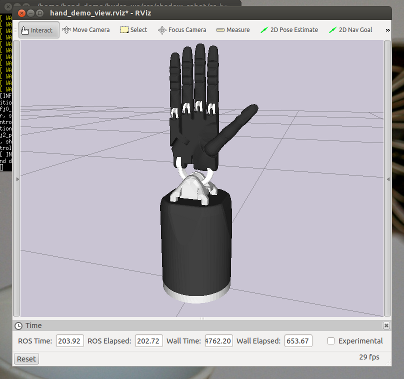
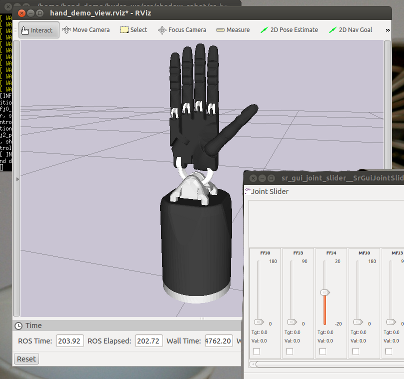
Better welcome page.

Changed region(s): [[0.5941, 0.4354, 1.0, 1.0]]

diff --git a/ansible/files/home/hand_demo/Documents/Welcome.html b/ansible/files/home/hand_demo/Documents/Welcome.html
@@ -3,26 +3,66 @@
   <head>
     <meta content="text/html; charset=utf-8" http-equiv="content-type">
     <title>Shadow Hand</title>
-  </head>
-  <body> <a href="http://www.shadowrobot.com/"><img title="Shadow Robot Company"
-        alt="Shadow Robot Company" src="Shadow-Logo.png"></a>
-    <h1>Welcome to The Hand Demo</h1>
+    <style type="text/css">
+body {  
+  color: #333333;  
+  text-align: justify;  
+  font-family: sans-serif;  
+  font-size: 11pt;
+}
+
+h1 {  
+  font-family: "Oswald", sans-serif;  
+  font-size: 24pt;  
+  margin-bottom: 18px;  
+  font-weight: 300;  
+  line-height: 1.62em;  
+  letter-spacing: 1px;
+}
+
+#rviz_hand_image {  
+  float: right;  
+  clear: both;  
+  margin-top: 2em;  
+  margin-right: 2em;  
+  margin-bottom: 2em;  
+  margin-left: 2em;
+}
+
+#hand_sliders_image {  
+  float: right;  
+  margin-top: 2em;  
+  margin-right: 2em;  
+  margin-bottom: 2em;  
+  margin-left: 2em;
+}
+
+#hand_sliders_para {  
+        //clear: both;
+}
+
+#touble_shooting_start {  
+  clear: both;
+}
+
+</style></head>
+  <body id="touble_shooting_start"> <a href="http://www.shadowrobot.com/"><img
+        title="Shadow Robot Company" alt="Shadow Robot Company" src="Shadow-Logo.png"></a>
+    <h1 id="page_title">Welcome to The Hand Demo</h1>
+    <img id="rviz_hand_image" title="Rviz Hand" alt="Rviz Hand" src="rviz_hand.png"><br>
     <p>To get started click the <strong>Start Hand</strong> <img title="Start Hand"
         alt="Start Hand" src="../hydro_ws/src/sr-visualization/sr_visualization_icons/icons/iconHand.png">
       icon. </p>
     <p>This will start the simulator and open a visualization window with a 3D
       model of the hand:</p>
-    <img title="Rviz Hand" alt="Rviz Hand" src="rviz_hand.png"><br>
     You can use the mouse to move around the 3D world, see the bottom of the
     window for tips.
-    <p>Next, lets move the hand, click the <strong>Hand Sliders</strong>&nbsp;<img
-        title="Hand Sliders" alt="Hand Sliders" src="../../../usr/share/icons/hicolor/scalable/apps/gnome-nettool.svg">
+    <p id="hand_sliders_para">Lets move the hand, click the <strong>Hand
+        Sliders</strong>&nbsp;<img title="Hand Sliders" alt="Hand Sliders" src="../../../usr/share/icons/hicolor/scalable/apps/gnome-nettool.svg">
       icon.</p>
-    <img title="Hand Sliders" alt="Hand Sliders" src="hand_sliders.png"><br>
-    <br>
     Try moving the <strong>FFJ0</strong> slider and the <strong>first finger</strong>
-    will curl over. If we had areal shadow hand attached that would be moving
-    too.<br>
+    will curl over. If we had a real shadow hand attached that would be moving
+    too!<br>
     <br>
     TODO: Trouble shooting section?<br>
     <br>
